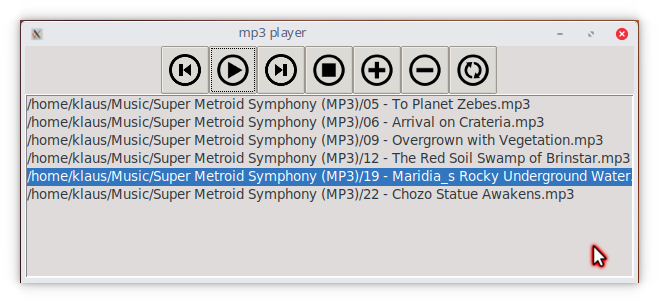
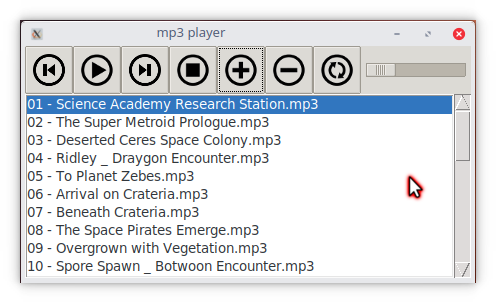
some changes took place, maybe..

diff --git a/README.md b/README.md
@@ -9,11 +9,12 @@ features so far:
 - filedialog remembers last visted directory  
 - automatically go to the next track  
 - allow double-click on a listed track to start it  
+- scrollbar for lengthy playlists  
+- don't show file paths in the listbox  
 - plays a variety of formats (ogg, mp3, amiga mods, ..)  
 
 ## todo:  
 - show track progress  
-- scrollbar for lengthy playlists  
 - save/load playlists
   
 
